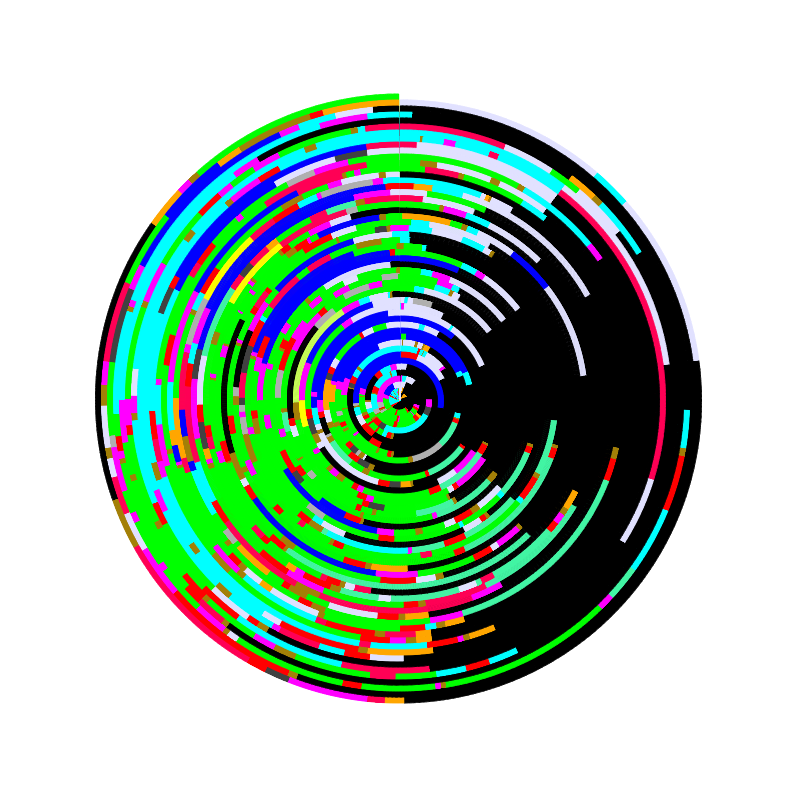
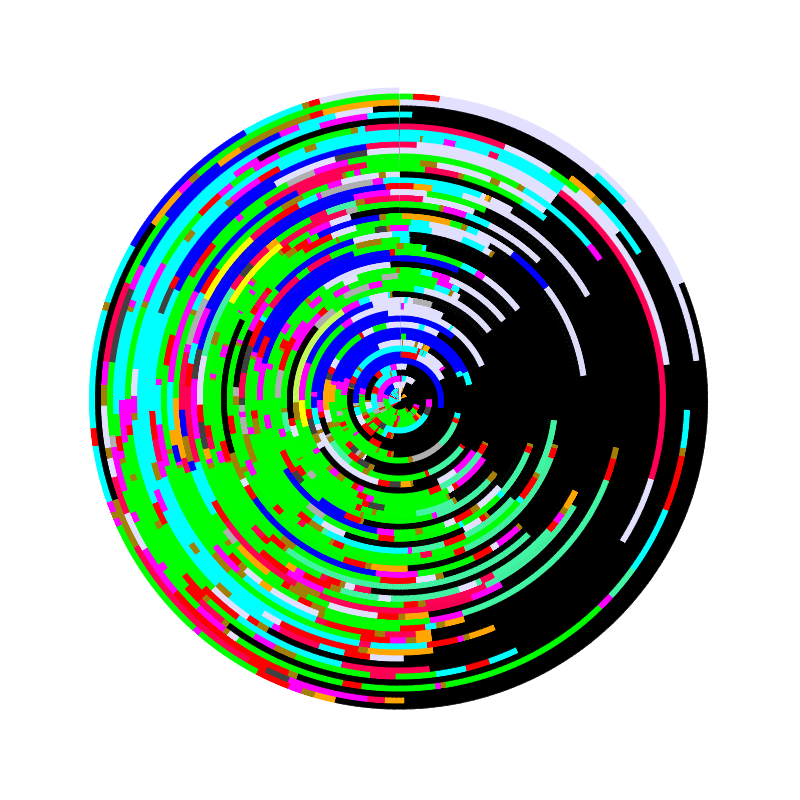
added 4/6

diff --git a/index.html b/index.html
@@ -15,13 +15,13 @@
 		</div>
 	-->
 		<div class="inputDiv">
-			<label for="cRad">Pie Radius</label><input name="cRad" id="cRad" type="number" min="0.1" max="50" step="1" value="208">
+			<label for="cRad">Pie Radius</label><input name="cRad" id="cRad" type="number" min="0.1" max="50" step="1" value="212">
 		</div>
 		<div class="inputDiv">
-			<label for="sRad">Spiral Start Radius</label><input name="sRad" id="sRad" type="number" min="0.1" max="50" step="1" value="306">
+			<label for="sRad">Spiral Start Radius</label><input name="sRad" id="sRad" type="number" min="0.1" max="50" step="1" value="312">
 		</div>
 		<div class="inputDiv">
-			<label for="eRad">Spiral End Radius</label><input name="eRad" id="eRad" type="number" min="0.1" max="50" step="1" value="312">
+			<label for="eRad">Spiral End Radius</label><input name="eRad" id="eRad" type="number" min="0.1" max="50" step="1" value="318">
 		</div>
 		<div id="buttonDiv">
 			<label>Open .png <input type="file" id="impBtn" name="impBtn" accept=".png" onchange="importCanvas();"></label>
@@ -58,21 +58,7 @@
 			var ctx2 = canvas2.getContext("2d");
 
 			var myDay = [
-				['00:10','main work'],
-				['00:30','eating'],
-				['04:30','TV'],
-				['12:49','sleep'],
-				['13:05','reading'],
-				['13:15','bathroom'],
-				['13:25','chores'],
-				['13:51','eating'],
-				['14:43','main work'],
-				['14:48','chores'],
-				['16:24','main work'],
-				['16:30','chores'],
-				['16:35','bathroom'],
-				['16:43','chores'],
-				['','side work'],
+				['','TV'],
 			];
 
 			var categories = {
